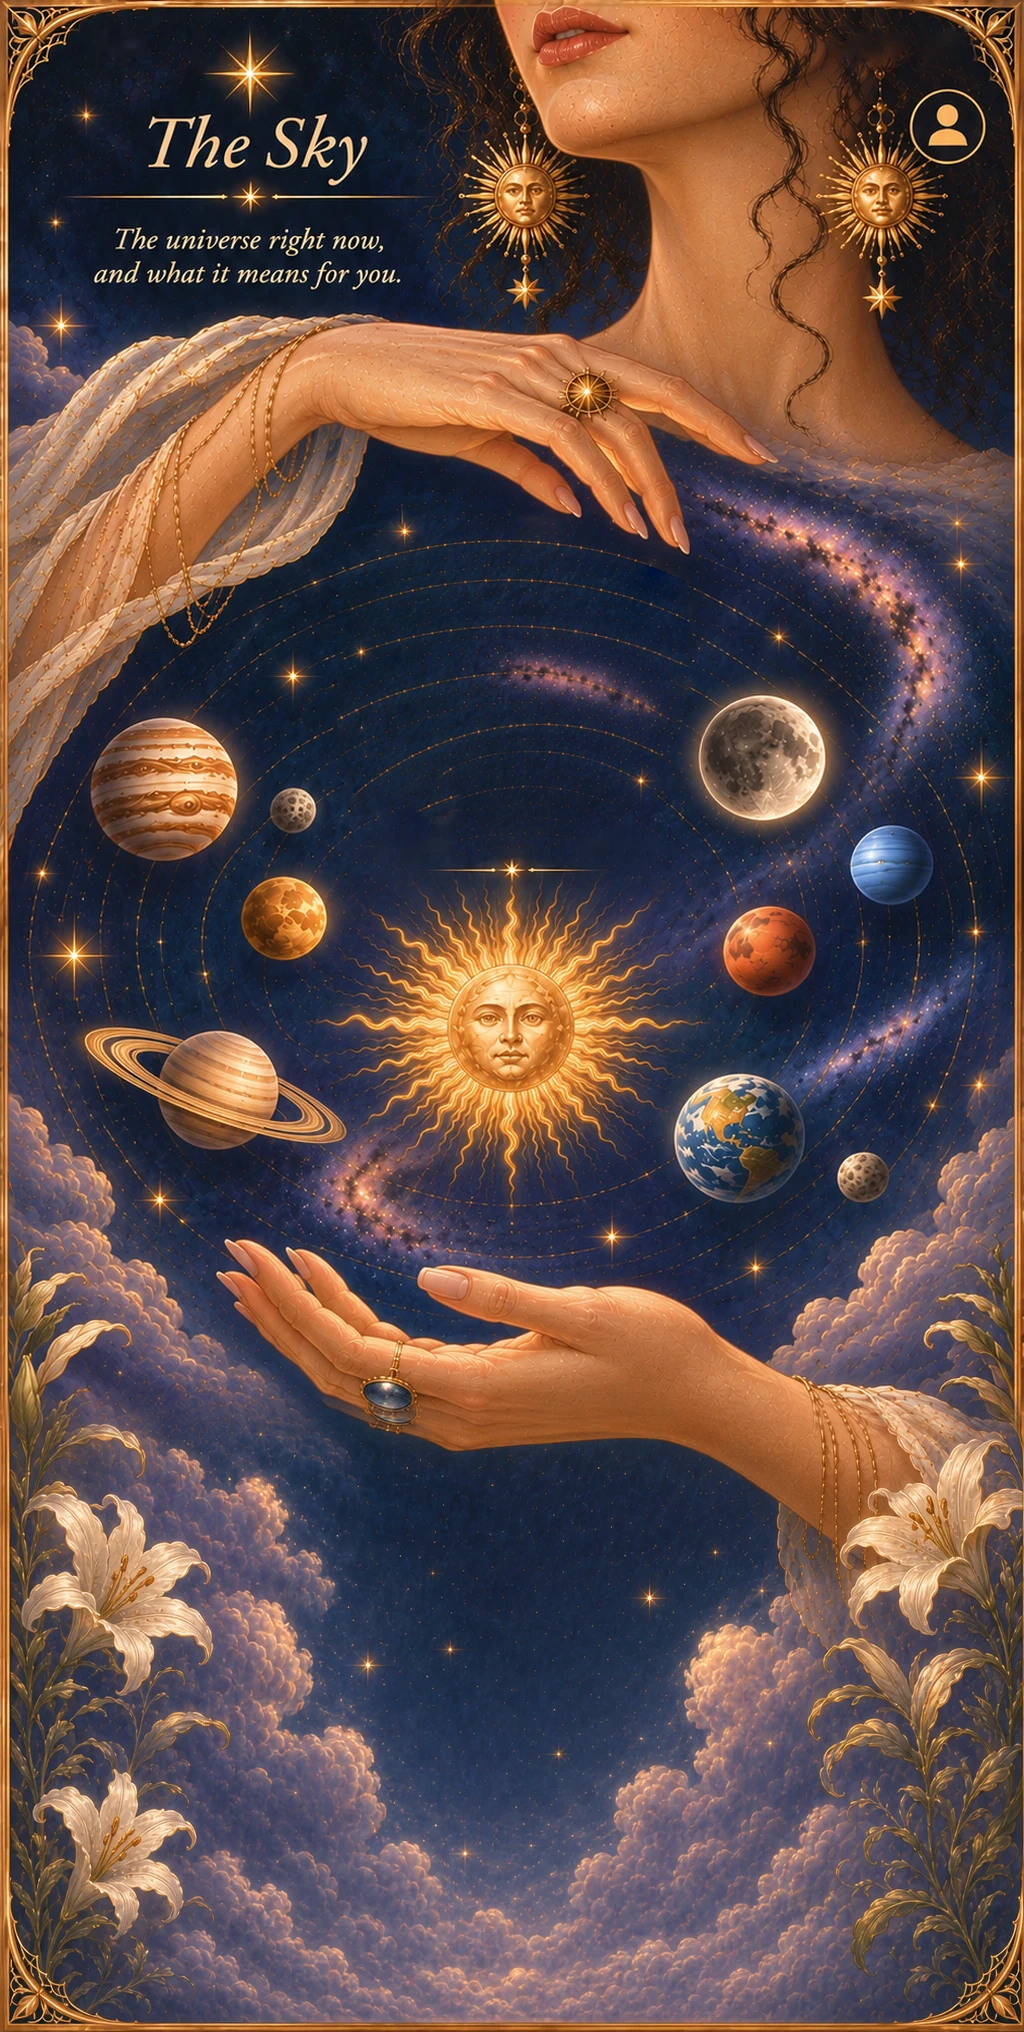
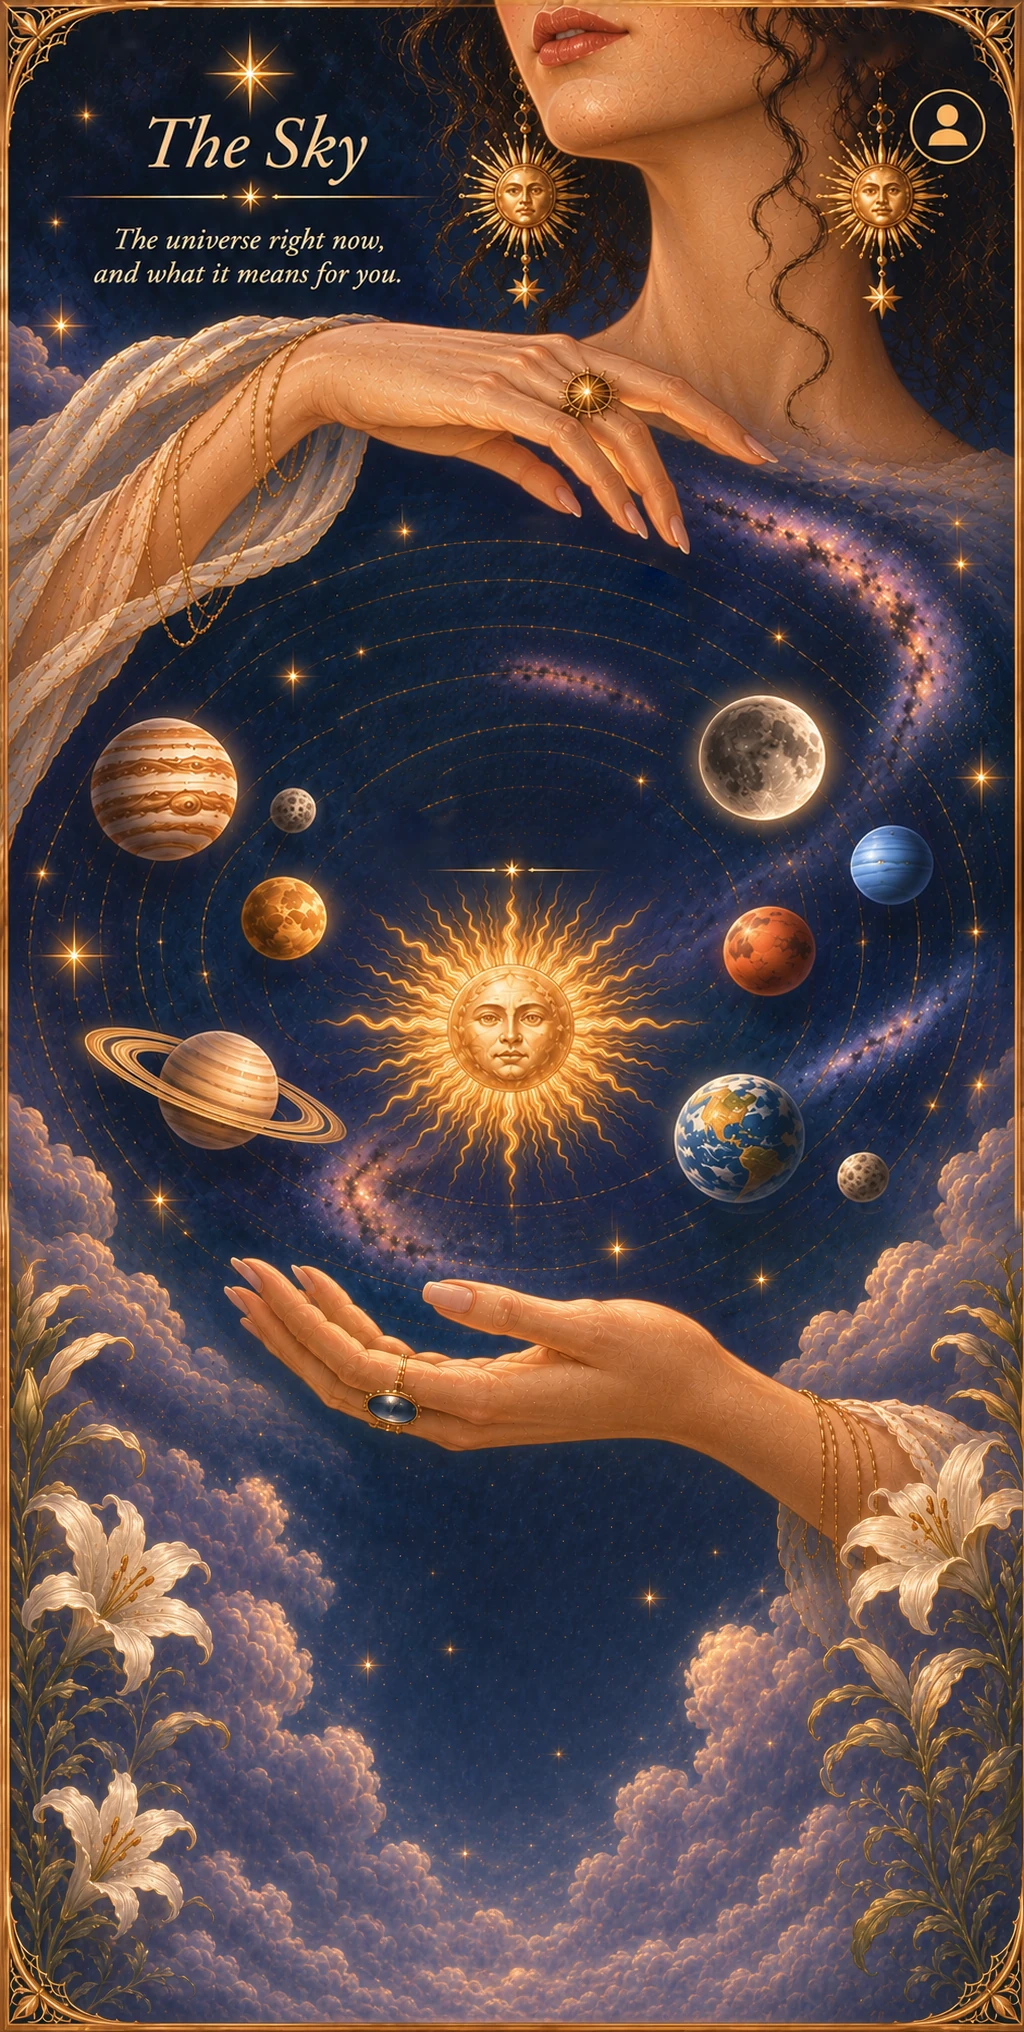
Sky: the lower hand painted once (the join moved into the open sky above it, no ghost); the menu cut at its own gold rim so the painting shows around its corners, seated on the screen's bottom edge

Changed region(s): [[0.0, 0.5891, 1.0, 0.7131]]

diff --git a/public/ritual.css b/public/ritual.css
@@ -157,6 +157,6 @@ body:has(.sky0) .toast{bottom:calc(var(--rnh,80px) + env(safe-area-inset-bottom,
 #app .sk0-n::after{transform:scaleX(-1)}
 #app .sk0-tip{position:absolute;left:0;right:0;bottom:calc(var(--rnh,80px) + env(safe-area-inset-bottom,0px) + 8px);margin:0;padding:0 16px;text-align:center;font:italic 500 calc(var(--rw,100vw)*.04)/1.3 'Cormorant Garamond',serif;color:#EDCF96;text-shadow:0 0 10px rgba(4,7,22,.95),0 0 3px rgba(4,7,22,.9);pointer-events:none}
 #app .sk0-tip::after{content:'';display:block;width:42%;height:9px;margin:5px auto 0;background:radial-gradient(circle,#FFE6B0 0 2px,rgba(255,220,150,.5) 3px,transparent 5px) center/9px 9px no-repeat,linear-gradient(90deg,transparent,#D9B06A 30%,transparent 46%,transparent 54%,#D9B06A 70%,transparent) center/100% 1px no-repeat}
-#app .sk0-nav{background-image:url(/art/sky/sk-nav.webp)}
+#app .sk0-nav{background-image:url(/art/sky/sk-nav.webp);bottom:calc(env(safe-area-inset-bottom,0px) - var(--rnh,80px)*12/217)}
 @media (max-height:700px){#app .sk0-tip::after{display:none}#app .sk0-tip{font-size:calc(var(--rw,100vw)*.035);line-height:1.22;bottom:calc(var(--rnh,80px) + env(safe-area-inset-bottom,0px) + 3px)}}
 #app .sky0~.cpop{z-index:40!important}
